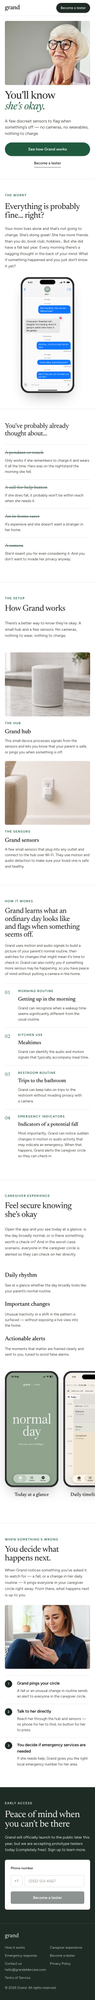
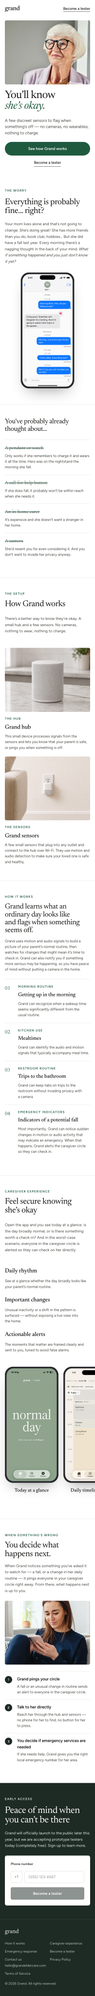
Implement v2 hero and shared header design

diff --git a/homepage.css b/homepage.css
@@ -37,13 +37,15 @@ input::placeholder{color:var(--muted-2)}
 .btn-sm:hover{background:var(--ink-2)}
 .link-ul{text-decoration:none;color:var(--ink);padding:16px 8px;font-weight:500;font-size:16px;border-bottom:1px solid var(--ink)}
 
-/* header */
-.site-header{position:sticky;top:0;z-index:10;background:rgba(255,255,255,.9);backdrop-filter:blur(10px);border-bottom:1px solid var(--rule)}
-.site-header nav{display:flex;align-items:center;justify-content:space-between;gap:24px;padding-top:18px;padding-bottom:18px}
+/* header — quiet: static, no rule, no tagline, text-only CTA */
+.site-header{background:#fff}
+.site-header nav{display:flex;align-items:center;justify-content:space-between;gap:24px;padding-top:28px;padding-bottom:12px}
 .brand{text-decoration:none;font-family:var(--serif);font-size:28px;font-weight:500;letter-spacing:-.02em;display:flex;align-items:baseline;gap:10px;color:var(--ink)}
-.brand small{font-family:var(--sans);font-size:13px;color:var(--muted);letter-spacing:0}
-.nav-links{display:flex;gap:28px;align-items:center;font-size:14px;font-weight:500;flex-wrap:wrap;justify-content:flex-end}
-.nav-links a:not(.btn){text-decoration:none;color:var(--ink-2)}
+.brand small{display:none}
+.nav-links{display:flex;gap:32px;align-items:center;font-size:15px;font-weight:500;flex-wrap:wrap;justify-content:flex-end}
+.nav-links a:not(.btn){text-decoration:none;color:var(--muted)}
+.nav-links a.btn{background:none;color:var(--ink);padding:0;border-radius:0;border-bottom:1px solid var(--ink);font-weight:500;font-size:15px}
+.nav-links a.btn:hover{background:none;color:var(--green);border-color:var(--green)}
 
 /* sections */
 .section{border-top:1px solid var(--rule)}
@@ -56,14 +58,33 @@ input::placeholder{color:var(--muted-2)}
 .photo{width:100%;object-fit:cover;border-radius:6px}
 .photo-4x5{aspect-ratio:4/5}.photo-4x3{aspect-ratio:4/3}
 
-/* hero */
-.hero .wrap{padding-top:56px;padding-bottom:72px;display:grid;grid-template-columns:repeat(auto-fit,minmax(min(100%,420px),1fr));gap:56px;align-items:end}
-.hero-copy{padding-bottom:24px}
-.hero-actions{display:flex;gap:12px;flex-wrap:wrap;align-items:center}
-.hero-photo{max-height:min(600px,62vh);object-position:center 30%}
+/* hero — headline sits in the photo's negative space, at her eye line */
+.hero .wrap{padding-top:24px;padding-bottom:0}
+.hero-media{position:relative;border-radius:6px;overflow:hidden;aspect-ratio:16/9;max-height:min(720px,84vh);background:#8d8d8a}
+.hero-photo{position:absolute;inset:0;width:100%;height:100%;object-fit:cover;object-position:100% 28%}
+.hero-media::after{content:"";position:absolute;inset:0;background:linear-gradient(90deg,rgba(20,19,17,.66) 0%,rgba(20,19,17,.42) 38%,rgba(20,19,17,0) 66%)}
+.hero-copy{position:absolute;z-index:1;left:clamp(40px,6.5vw,96px);top:50%;transform:translateY(-50%);width:min(560px,42%);color:#fff;gap:32px}
+.hero-copy .lede{max-width:440px}
+.hero-copy .display{color:#fff}
+.hero-copy .accent{color:#fff}
+.hero-copy .lede{color:rgba(255,255,255,.9)}
+.hero-copy .link-ul{color:#fff;border-bottom-color:rgba(255,255,255,.7)}
+.hero-copy .btn{background:#fff;color:var(--ink)}
+.hero-copy .btn:hover{background:#e8e8e5;color:var(--ink)}
+.hero-actions{display:flex;gap:20px;flex-wrap:wrap;align-items:center}
+@media(max-width:1000px){
+ .hero-media{aspect-ratio:auto;max-height:none;overflow:visible;border-radius:0;background:none;display:flex;flex-direction:column;gap:32px}
+ .hero-media::after{display:none}
+ .hero-photo{position:static;height:auto;aspect-ratio:3/2;border-radius:6px;object-position:80% 25%}
+ .hero-copy{position:static;transform:none;width:auto;max-width:640px;color:var(--ink)}
+ .hero-copy .display{color:var(--ink)}.hero-copy .accent{color:var(--green)}.hero-copy .lede{color:var(--ink-3);max-width:480px}
+ .hero-copy .link-ul{color:var(--ink);border-bottom-color:var(--ink)}
+ .hero-copy .btn{background:var(--green);color:#fff}.hero-copy .btn:hover{background:var(--green-dark)}
+}
 
 /* worry */
-.worry .wrap{padding-top:96px}
+.worry{border-top:0}
+.worry .wrap{padding-top:112px}
 .phone-col{display:flex;justify-content:center}
 
 /* phone bezel */
@@ -121,7 +142,6 @@ html:not([data-waitlist-variant="email"]) [data-waitlist-field="email"],
 html[data-waitlist-variant="email"] [data-waitlist-field="phone"],
 html:not([data-waitlist-variant="email"]) [data-waitlist-copy="email"],
 html[data-waitlist-variant="email"] [data-waitlist-copy="phone"]{display:none}
-.nav-links a.btn{color:#fff}
 .brand{flex-shrink:0}
 .btn:disabled{opacity:.5;cursor:not-allowed}
 .card[data-submitting="true"] .btn:disabled{cursor:wait}
@@ -147,21 +167,21 @@ a:focus-visible,button:focus-visible,input:focus-visible{outline:3px solid #b68b
  .lede{font-size:17px;max-width:none}.body-lg{font-size:16px}.body{font-size:15px;line-height:1.55}
  .grid-2,.grid-2.tight,.grid-2.wide{gap:28px;align-items:start}
  /* header: static (not sticky), brand + CTA only */
- .site-header{position:static;background:#fff;backdrop-filter:none}
- .site-header nav{gap:14px;padding-top:12px;padding-bottom:12px}
+ .site-header nav{gap:14px;padding-top:16px;padding-bottom:8px}
  .brand{font-size:26px}
  .brand small,.nav-links>a:not(.btn){display:none}
  .nav-links{gap:0;flex-wrap:nowrap}
- /* hero: photo first (4:3), headline, full-width CTA, centered secondary link */
- .hero .wrap{padding-top:20px;padding-bottom:48px;gap:24px}
- .hero .wrap>.stack-12{order:-1}
- .hero-copy{padding-bottom:0;gap:24px}
- .hero-photo{aspect-ratio:4/3;max-height:none;object-position:center 25%}
+ /* hero: photo first (4:3), copy below on white, full-width CTA */
+ .hero .wrap{padding-top:20px;padding-bottom:48px}
+ .hero-media{gap:24px}
+ .hero-photo{aspect-ratio:4/3}
+ .hero-copy{max-width:none;gap:24px}
+ .hero-copy .lede{max-width:none}
  .hero-actions{flex-direction:column;align-items:center;gap:14px}
  .hero-actions .btn{width:100%;text-align:center}
  .hero-actions .link-ul{padding:4px 0;font-size:15px}
  /* worry: copy above the phone */
- .worry .wrap{padding-top:56px}
+ .worry .wrap{padding-top:40px}
  .worry .grid-2{gap:32px}
  .phone-col{order:2}
  .phone,.phone.lg{max-width:220px}

diff --git a/index.html b/index.html
@@ -123,16 +123,16 @@
 <main id="main-content">
 <section id="top" class="hero">
   <div class="wrap">
-    <div class="stack stack-28 hero-copy">
-      <h1 class="display">You&rsquo;ll know <em class="accent">she&rsquo;s okay.</em></h1>
-      <p class="lede">A few discreet sensors to flag when something&rsquo;s off &mdash; no cameras, no wearables, nothing to charge.</p>
-      <div class="hero-actions">
-        <a href="#system" class="btn">See how Grand works</a>
-        <a href="#waitlist" class="link-ul">Become a tester</a>
+    <div class="hero-media">
+      <img class="hero-photo" src="assets/hero-pexels-moe-magners-5335290.jpg" srcset="assets/hero-pexels-moe-magners-5335290-mobile.jpg 900w, assets/hero-pexels-moe-magners-5335290.jpg 2400w" sizes="(max-width: 1200px) calc(100vw - 56px), 1144px" fetchpriority="high" alt="An older woman smiling at home">
+      <div class="stack stack-28 hero-copy">
+        <h1 class="display">You&rsquo;ll know <em class="accent">she&rsquo;s okay.</em></h1>
+        <p class="lede">A few discreet sensors to flag when something&rsquo;s off &mdash; no cameras, no wearables, nothing to charge.</p>
+        <div class="hero-actions">
+          <a href="#system" class="btn">See how Grand works</a>
+          <a href="#waitlist" class="link-ul">Become a tester</a>
+        </div>
       </div>
-    </div>
-    <div class="stack stack-12">
-      <img class="photo photo-4x5 hero-photo" src="assets/hero-pexels-moe-magners-5335290.jpg" srcset="assets/hero-pexels-moe-magners-5335290-mobile.jpg 900w, assets/hero-pexels-moe-magners-5335290.jpg 2400w" sizes="(max-width: 951px) calc(100vw - 56px), 544px" fetchpriority="high" alt="An older woman smiling at home">
     </div>
   </div>
 </section>

diff --git a/README.md b/README.md
@@ -4,6 +4,8 @@ Static landing-page wireframe for Grand.
 
 ## Status
 
+- Applied handoff v2: a wide desktop hero with white text over a left-side gradient, stacked photo/copy at 1000px and below, and a static shared header with muted navigation and an underlined CTA. Original website copy, the italicized worry question, signup wiring, and footer remain intact.
+
 - Restored the pre-redesign homepage copy from `4209c40` within the new editorial desktop/mobile design: original hero and CTAs, section labels, product and routine descriptions, caregiver features, screenshot captions, response copy, signup text, and footer wording. Signup behavior and the 45-second confirmation timeout are retained.
 
 - Restyled `welcome.html` with the shared homepage header, footer, Newsreader/Figtree typography, green form controls, and `welcome.css`. Mobile puts the questionnaire ahead of the supporting image. Both contact variants, validation feedback, and scheduling/waitlist completion states retain the existing behavior.
